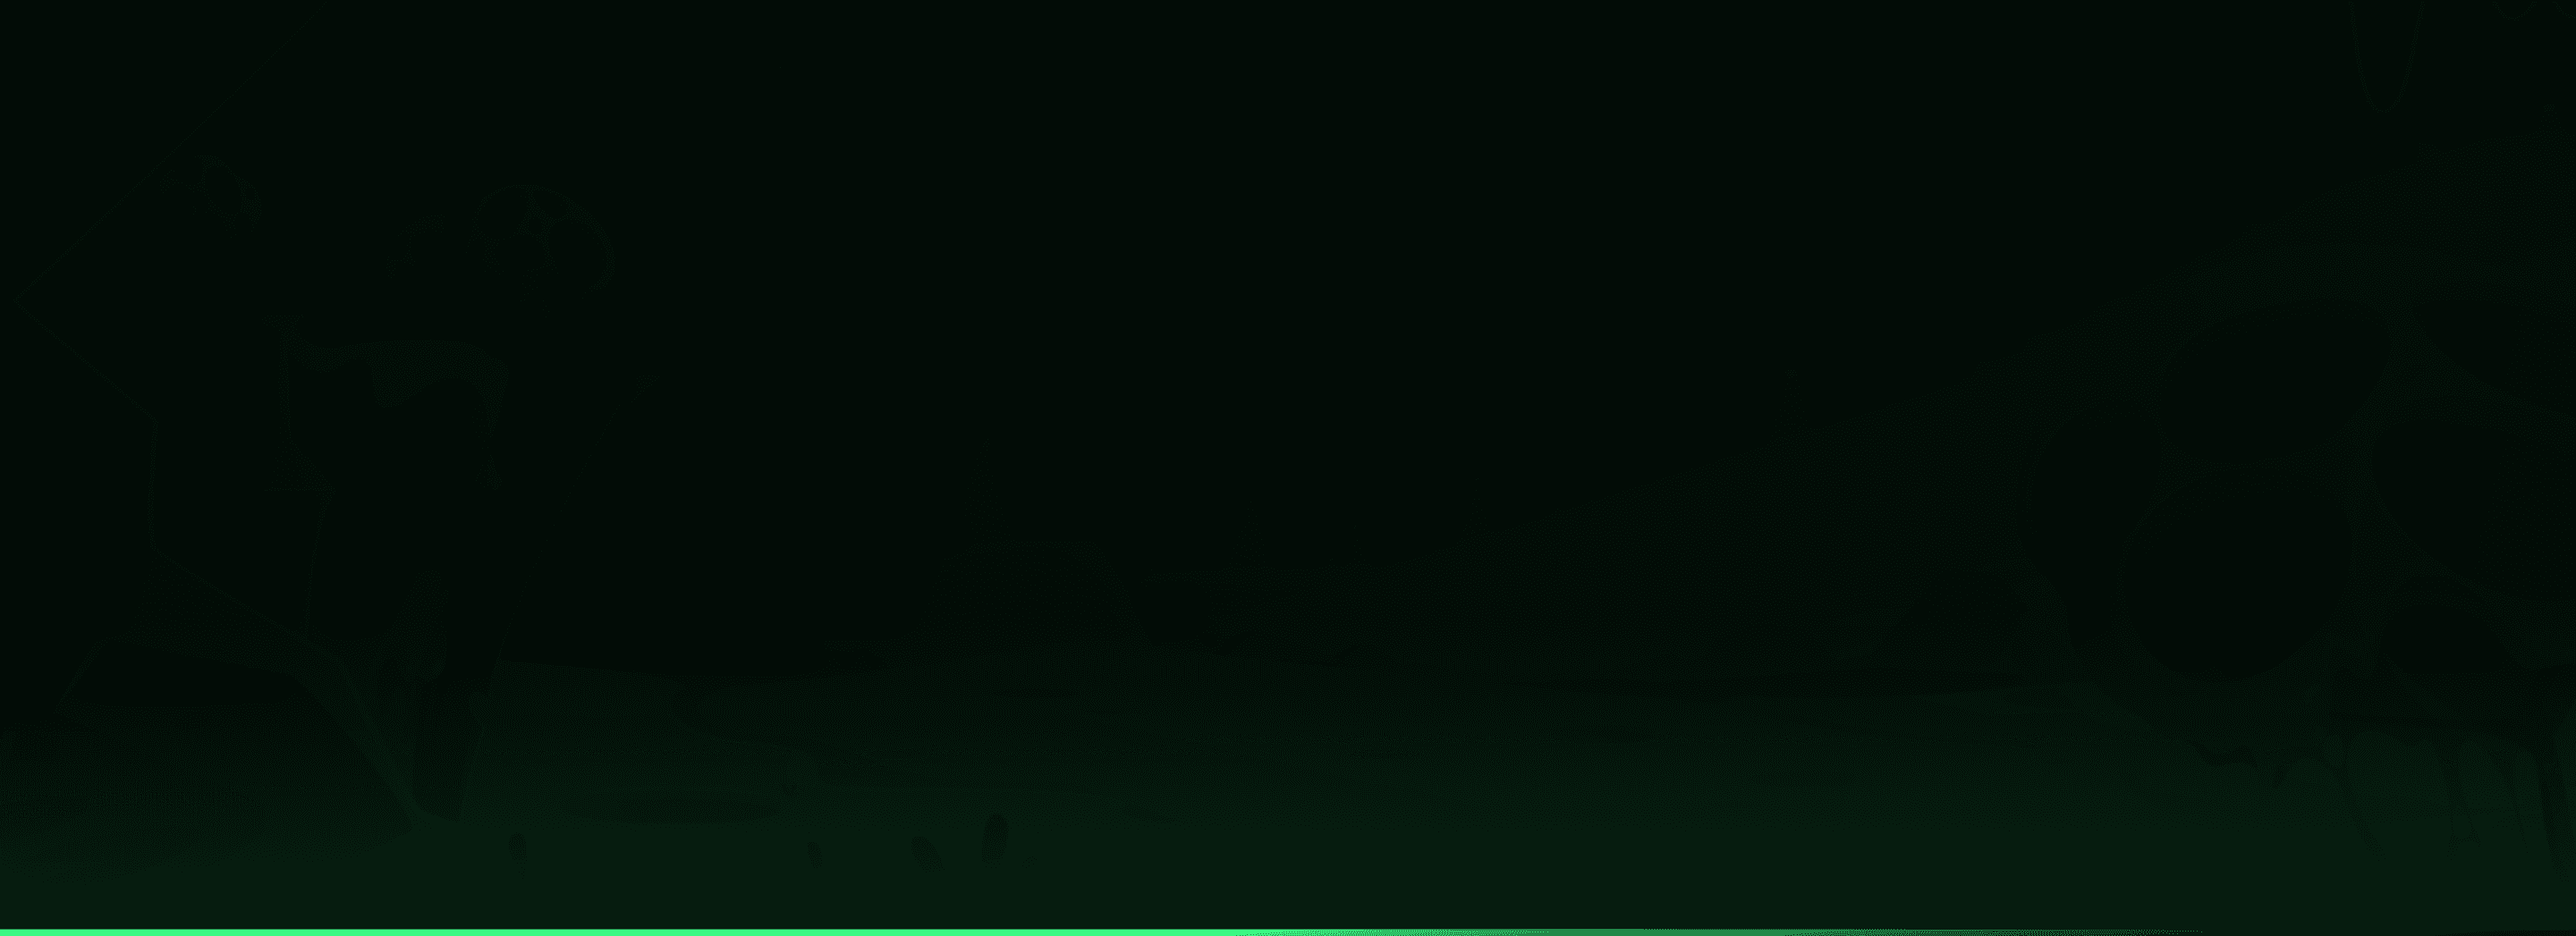
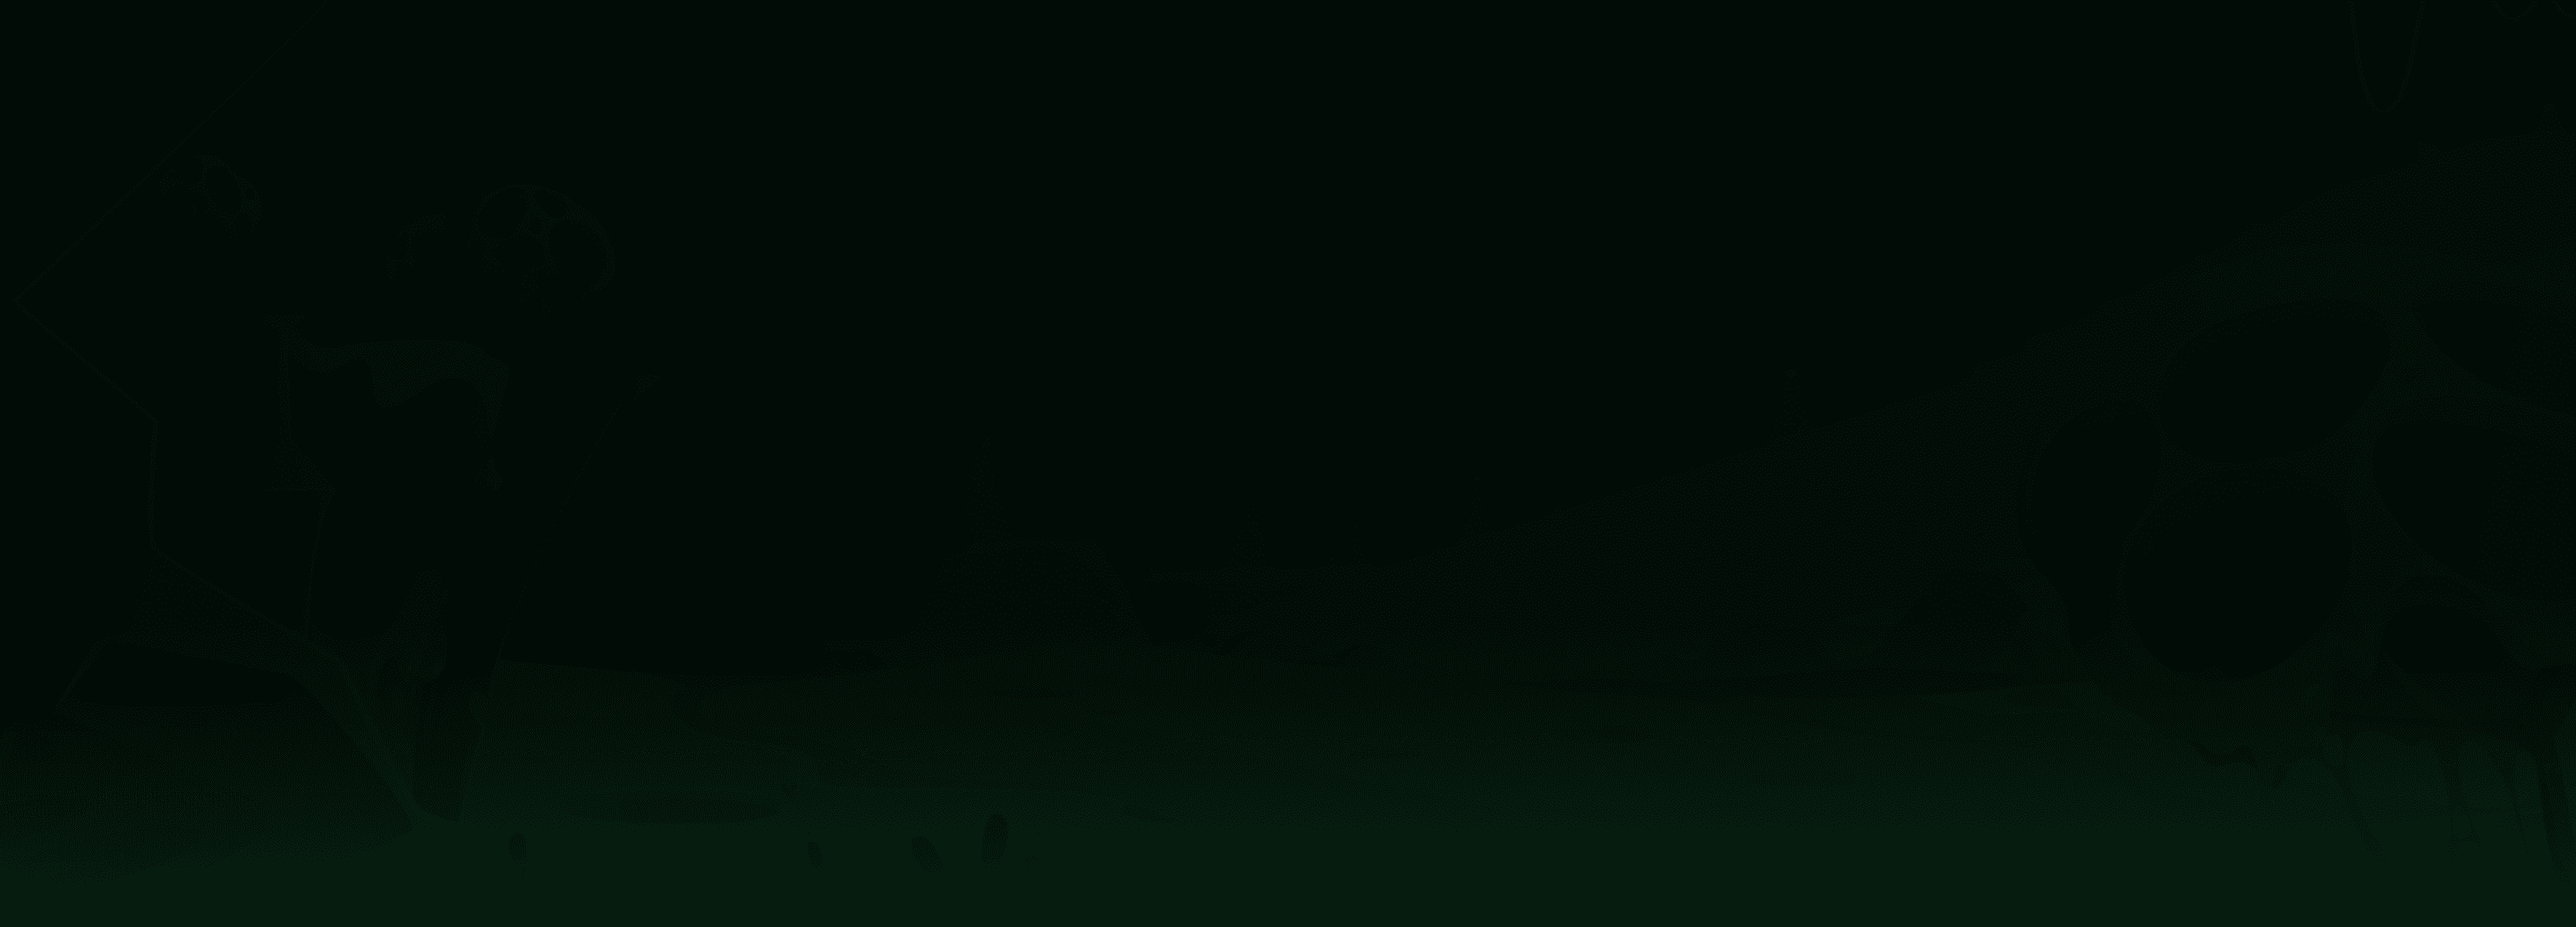
Developed Hero Section

Changed region(s): [[0.0, 0.9875, 0.8438, 1.0]]

diff --git a/src/app/components/SiteButton.tsx b/src/app/components/SiteButton.tsx
@@ -3,41 +3,41 @@ import Image from "next/image";
 import styles from "@components/SiteButton.module.css";
 
 export type SiteButtonProps = {
-    src: string;
-    text: string;
-    href: string;
-    external?: boolean;
-    variant?: "big" | "small";
+  src: string;
+  text: string;
+  href: string;
+  external?: boolean;
+  variant?: "big" | "small";
 };
 
 export default function SiteButton({
-    src,
-    text,
-    href,
-    external,
-    variant = "big",
+  src,
+  text,
+  href,
+  external,
+  variant = "big",
 }: SiteButtonProps) {
-    const buttonClass = variant === "small" ? styles.small : styles.big;
+  const buttonClass = variant === "small" ? styles.small : styles.big;
 
-    const content = (
-        <div className={`${styles.inner} ${buttonClass}`}>
-            <Image
-                src={`/icons/${src}.png`}
-                alt=""
-                width={variant === "small" ? 19 : 28}
-                height={variant === "small" ? 19 : 28}
-            />
-            <span>{text}</span>
-        </div>
+  const content = (
+    <div className={`${styles.inner} ${buttonClass}`}>
+      <Image
+        src={`/icons/${src}.png`}
+        alt=""
+        width={variant === "small" ? 19 : 28}
+        height={variant === "small" ? 19 : 28}
+      />
+      <span>{text}</span>
+    </div>
+  );
+
+  if (external) {
+    return (
+      <a href={href} target="_blank" rel="noopener noreferrer" className={`${styles.sitebutton} ${buttonClass}`}>
+        {content}
+      </a>
     );
+  }
 
-    if (external) {
-        return (
-            <a href={href} target="_blank" rel="noopener noreferrer" className={`${styles.sitebutton} ${buttonClass}`}>
-                {content}
-            </a>
-        );
-    }
-
-    return <Link href={href} className={`${styles.sitebutton} ${buttonClass}`}>{content}</Link>;
+  return <Link href={href} className={`${styles.sitebutton} ${buttonClass}`}>{content}</Link>;
 }

diff --git a/src/app/components/DropDownButton.tsx b/src/app/components/DropDownButton.tsx
@@ -6,33 +6,33 @@ import chevron from "@public/icons/chevron-gray-down.png";
 import styles from "./DropDownButton.module.css";
 
 export type DropDownButtonProps = {
-    src: string;
-    text: string;
-    altText: string;
-    children?: React.ReactNode;
+  src: string;
+  text: string;
+  altText: string;
+  children?: React.ReactNode;
 };
 
 export default function DropDownButton({ src, text, altText, children }: DropDownButtonProps) {
-    const [open, setOpen] = useState(false);
+  const [open, setOpen] = useState(false);
 
-    return (
-        <div className={styles.wrapper}>
-            <button
-                className={styles["dropdown-button"]}
-                onClick={() => setOpen(prev => !prev)}
-            >
-                <Image src={`/icons/${src}.png`} alt={altText} width={27} height={27}
-                    style={{ objectFit: "contain" }} />
-                <span>{text}</span>
-                <Image src={chevron} alt="Toggle dropdown" width={13} height={13}
-                    style={{ objectFit: "contain" }} />
-            </button>
+  return (
+    <div className={styles.wrapper}>
+      <button
+        className={styles["dropdown-button"]}
+        onClick={() => setOpen(prev => !prev)}
+      >
+        <Image src={`/icons/${src}.png`} alt={altText} width={27} height={27}
+          style={{ objectFit: "contain" }} />
+        <span>{text}</span>
+        <Image src={chevron} alt="Toggle dropdown" width={13} height={13}
+          style={{ objectFit: "contain" }} />
+      </button>
 
-            {open && (
-                <div className={styles["dropdown-content"]}>
-                    {children}
-                </div>
-            )}
+      {open && (
+        <div className={styles["dropdown-content"]}>
+          {children}
         </div>
-    );
+      )}
+    </div>
+  );
 }

diff --git a/src/app/page.tsx b/src/app/page.tsx
@@ -1,9 +1,33 @@
 import styles from "./page.module.css";
+import Image from "next/image";
+import herobg from "@public/images/hero-bg.png";
+import heroimage from "@public/images/hero-image.png";
+import SiteButton from "./components/SiteButton";
 
 export default function Home() {
   return (
     <main>
-      
+      <section id="hero-section">
+        <Image src={herobg} alt="" fill className={styles.herobg} priority />
+        <div className={styles.wrapper}>
+          <div className={styles.left}>
+            <div className={styles.upper}>
+              <h1 className={styles.heroheading}>Buy Your Favorite Items<br />
+                <span className='text-gradient-green'>Fast, Safe, and Easy </span><br />
+                with RoCart!
+              </h1>
+              <p className={styles.herosubheading}>
+                Rocart the fastest, safest shop for in‑game items with automated delivery.<br />
+                Get what you need in seconds.<br />
+                For items in Murder Mystery 2,  Grow a Garden, Blox Fruits, Steal a Brainrot, Blade Ball.
+              </p>
+            </div>
+            <SiteButton src="shopping-cart" text="Start Buying" href="/shop" variant="big" />
+          </div>
+          <Image src={heroimage} alt="Hero Image" className={styles.heroimage} priority />
+        </div>
+        <div className={styles.gradientSeparator}></div>
+      </section>
     </main>
   );
 }

diff --git a/src/app/page.module.css b/src/app/page.module.css
@@ -1,0 +1,65 @@
+.herobg {
+    z-index: 0;
+    width: 100%;
+    height: 100%;
+    position: absolute;
+    top: 0;
+    left: 0;
+    object-fit: cover;
+    object-position: bottom;
+}
+
+.wrapper {
+    z-index: 1;
+    width: var(--sec-width);
+    max-width: var(--max-sec-width);
+    display: flex;
+    align-items: flex-end;
+    justify-content: space-between;
+}
+
+.left {
+    padding-top: 114px;
+    padding-bottom: 97px;
+    width: 50%;
+    max-width: 711px;
+    display: flex;
+    flex-direction: column;
+    align-items: flex-start;
+    gap: 64px;
+}
+
+.upper {
+    display: flex;
+    flex-direction: column;
+    align-items: flex-start;
+    gap: 27px;
+}
+
+.heroheading {
+    font-weight: 800;
+    font-size: 43px;
+    line-height: 1.2;
+    color: var(--white);
+}
+
+.herosubheading {
+    font-size: 17px;
+}
+
+.heroimage {
+    padding-top: 58px;
+    padding-right: 4%;
+    aspect-ratio: 630 / 527;
+    width: 45%;
+    max-width: 630px;
+    height: auto;
+}
+
+.gradientSeparator {
+    width: 100%;
+    height: 5px;
+    background: var(--gradient-green-2-vanishing);
+    border-radius: 2px;
+    z-index: 1;
+}

diff --git a/src/app/globals.css b/src/app/globals.css
@@ -6,7 +6,9 @@
   --text: #C8C8C8;
   --black2: #0F0F0F;
   --white: #FFFFFF;
-  --gradient-green: linear-gradient(180deg, #3DFF88 0%, #259951 100%)
+  --gradient-green: linear-gradient(180deg, #3DFF88 0%, #259951 100%);
+  --gradient-green-2: linear-gradient(90deg, #3DFF88 0%, #D2FFE3 100%);
+  --gradient-green-2-vanishing: linear-gradient(90deg, #3DFF88 0%, rgb(210, 255, 227, 0.01) 100%);
 }
 
 body {
@@ -16,7 +18,7 @@ body {
   font-style: normal;
   font-weight: 400;
   font-size: 17px;
-  line-height: 1.5em;
+  line-height: 1.5;
 }
 
 main {
@@ -26,4 +28,26 @@ main {
   flex-direction: column;
   align-items: center;
   justify-content: center;
+}
+
+section {
+  width: 100%;
+  display: flex;
+  flex-direction: column;
+  align-items: center;
+  justify-content: center;
+  position: relative;
+}
+
+.text-gradient-green {
+  background: var(--gradient-green-2);
+  -webkit-background-clip: text;
+  -webkit-text-fill-color: transparent;
+  background-clip: text;
+  color: transparent;
+}
+
+h1 {
+  font-weight: 700;
+  font-size: 40px;
 }

diff --git a/src/app/components/SiteButton.module.css b/src/app/components/SiteButton.module.css
@@ -1,6 +1,5 @@
 .sitebutton {
     background: var(--white);
-    padding-bottom: 1px;
     display: flex;
     align-items: stretch;
     min-width: 0px;
@@ -9,16 +8,19 @@
 
 .sitebutton.small {
     border-radius: 11px;
+    padding-bottom: 1px;
 }
 
 .sitebutton.big {
     border-radius: 19px;
+    padding-bottom: 2px;
 }
 
 .inner {
     display: flex;
     align-items: center;
     justify-content: center;
+    min-width: 100%;
     font-weight: 600;
     color: var(--white);
     background: var(--gradient-green);
@@ -27,13 +29,13 @@
 .inner.small {
     padding: 8px 17px 8px 10px;
     gap: 12px;
-    font-size: 16px;
+    font-size: 14px;
     border-radius: 11px;
 }
 
 .inner.big {
     padding: 13px 20px 13px 18px;
     gap: 14px;
-    font-size: 14px;
+    font-size: 16px;
     border-radius: 19px;
 }

diff --git a/src/app/components/Logo.tsx b/src/app/components/Logo.tsx
@@ -3,21 +3,21 @@ import Link from "next/link";
 import logo from "@public/icons/logo.png";
 
 type LogoProps = {
-    width?: number;
-    height?: number;
-    className?: string;
+  width?: number;
+  height?: number;
+  className?: string;
 };
 
 export default function Logo({ width = 159, height = 40, className }: LogoProps) {
-    return (
-        <Link href="/" className={className}>
-            <Image
-                src={logo}
-                alt="Logo"
-                width={width}
-                height={height}
-                priority
-            />
-        </Link>
-    );
+  return (
+    <Link href="/" className={className}>
+      <Image
+        src={logo}
+        alt="Logo"
+        width={width}
+        height={height}
+        priority
+      />
+    </Link>
+  );
 }

diff --git a/src/app/components/Footer.tsx b/src/app/components/Footer.tsx
@@ -1,7 +1,7 @@
 export default function Footer() {
-    return (
-        <footer>
-            {/* Footer content goes here */}
-        </footer>
-    );
+  return (
+    <footer>
+      {/* Footer content goes here */}
+    </footer>
+  );
 }
